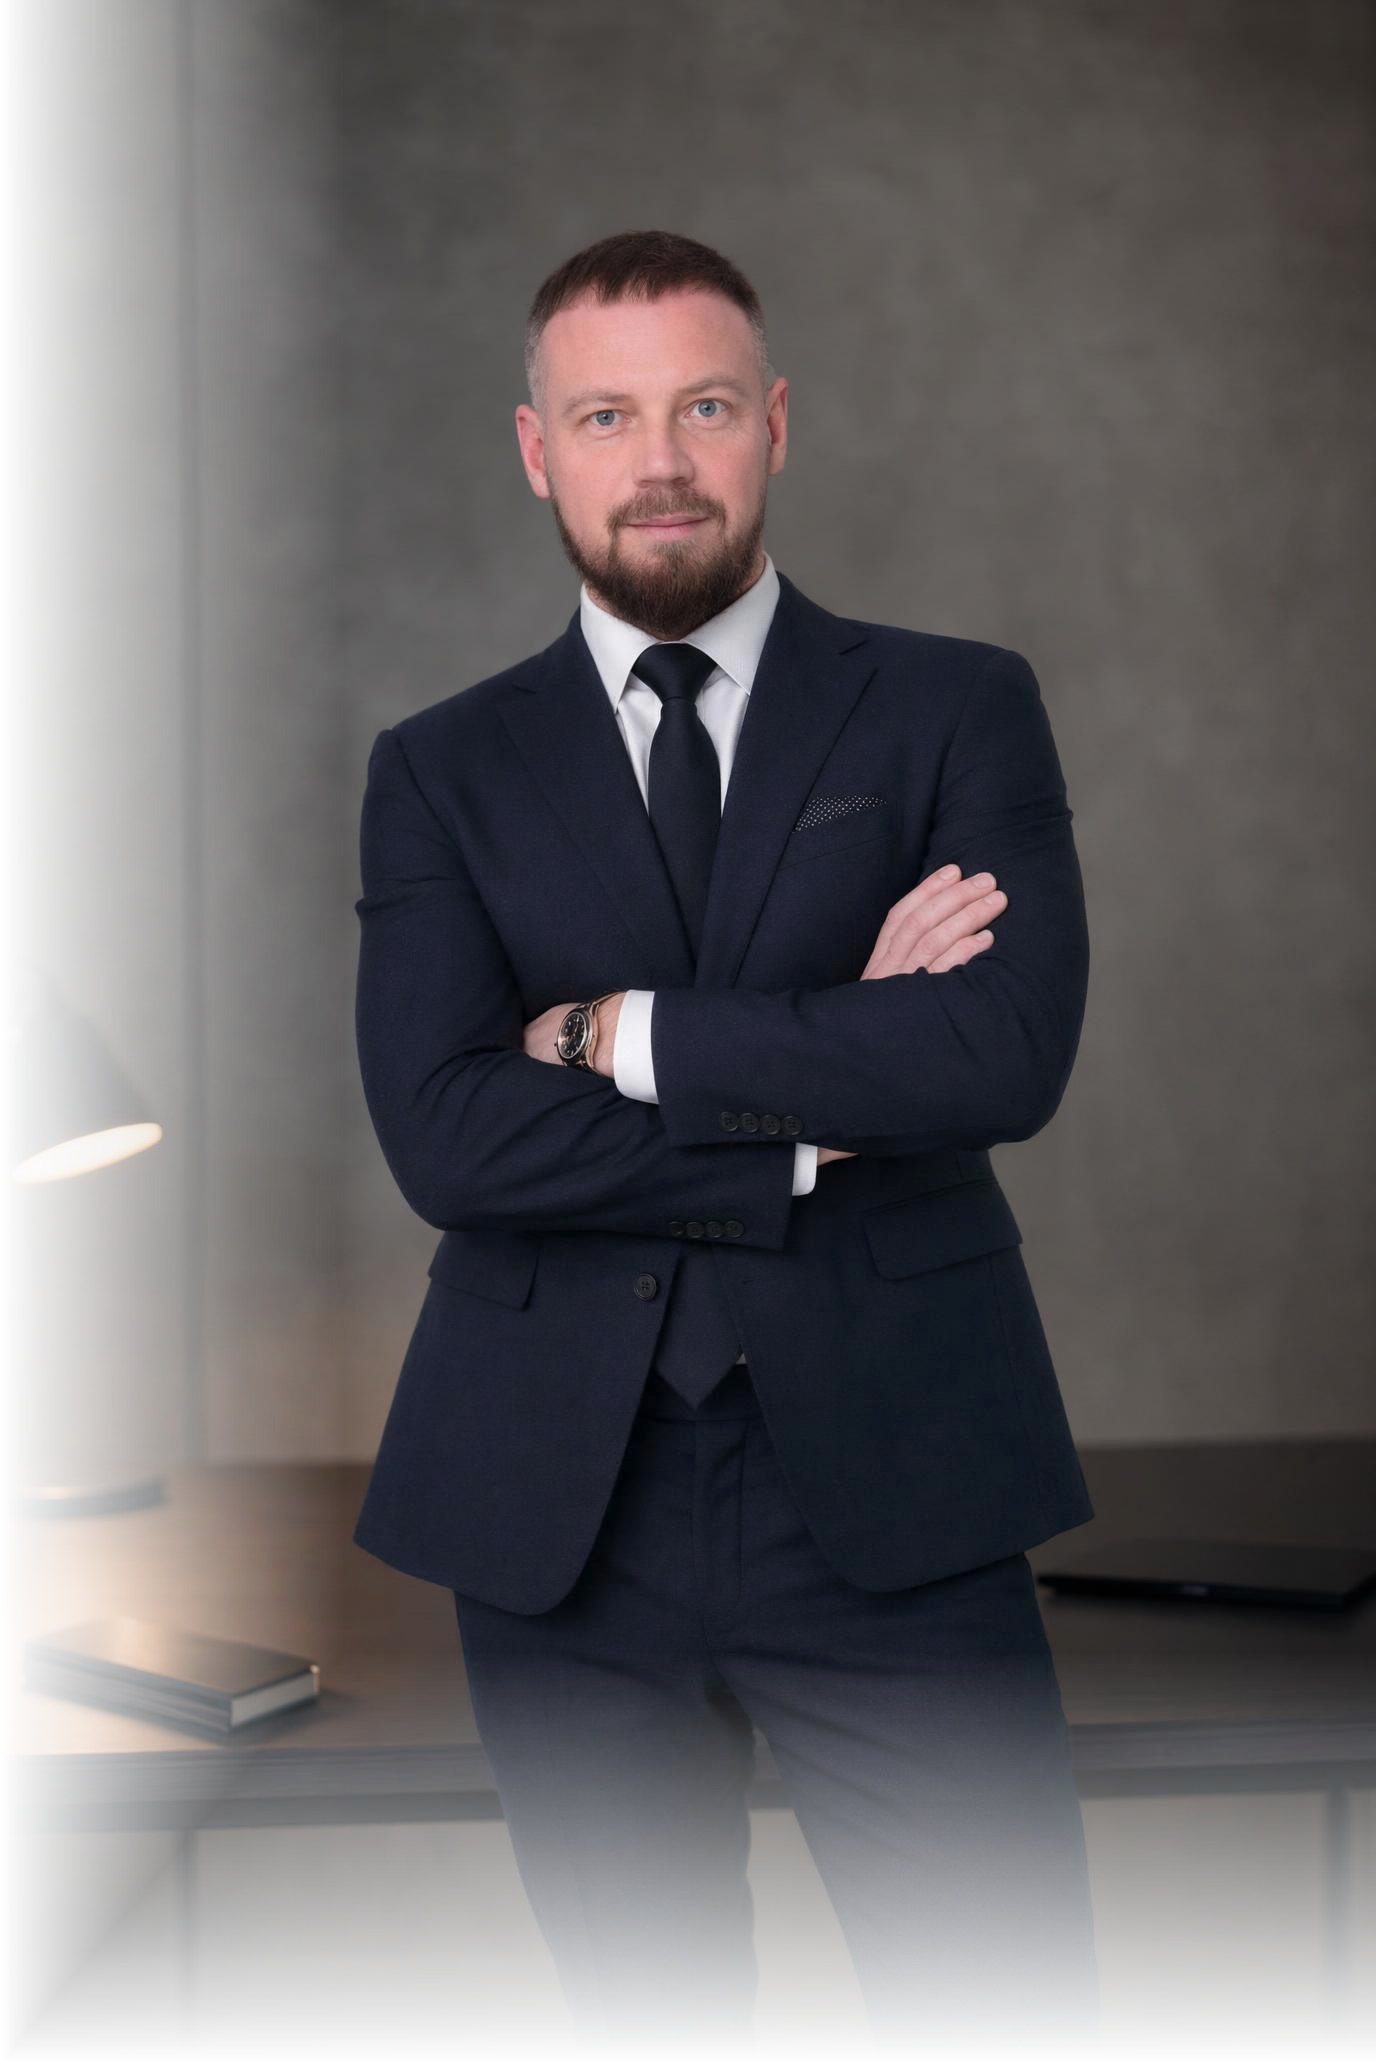
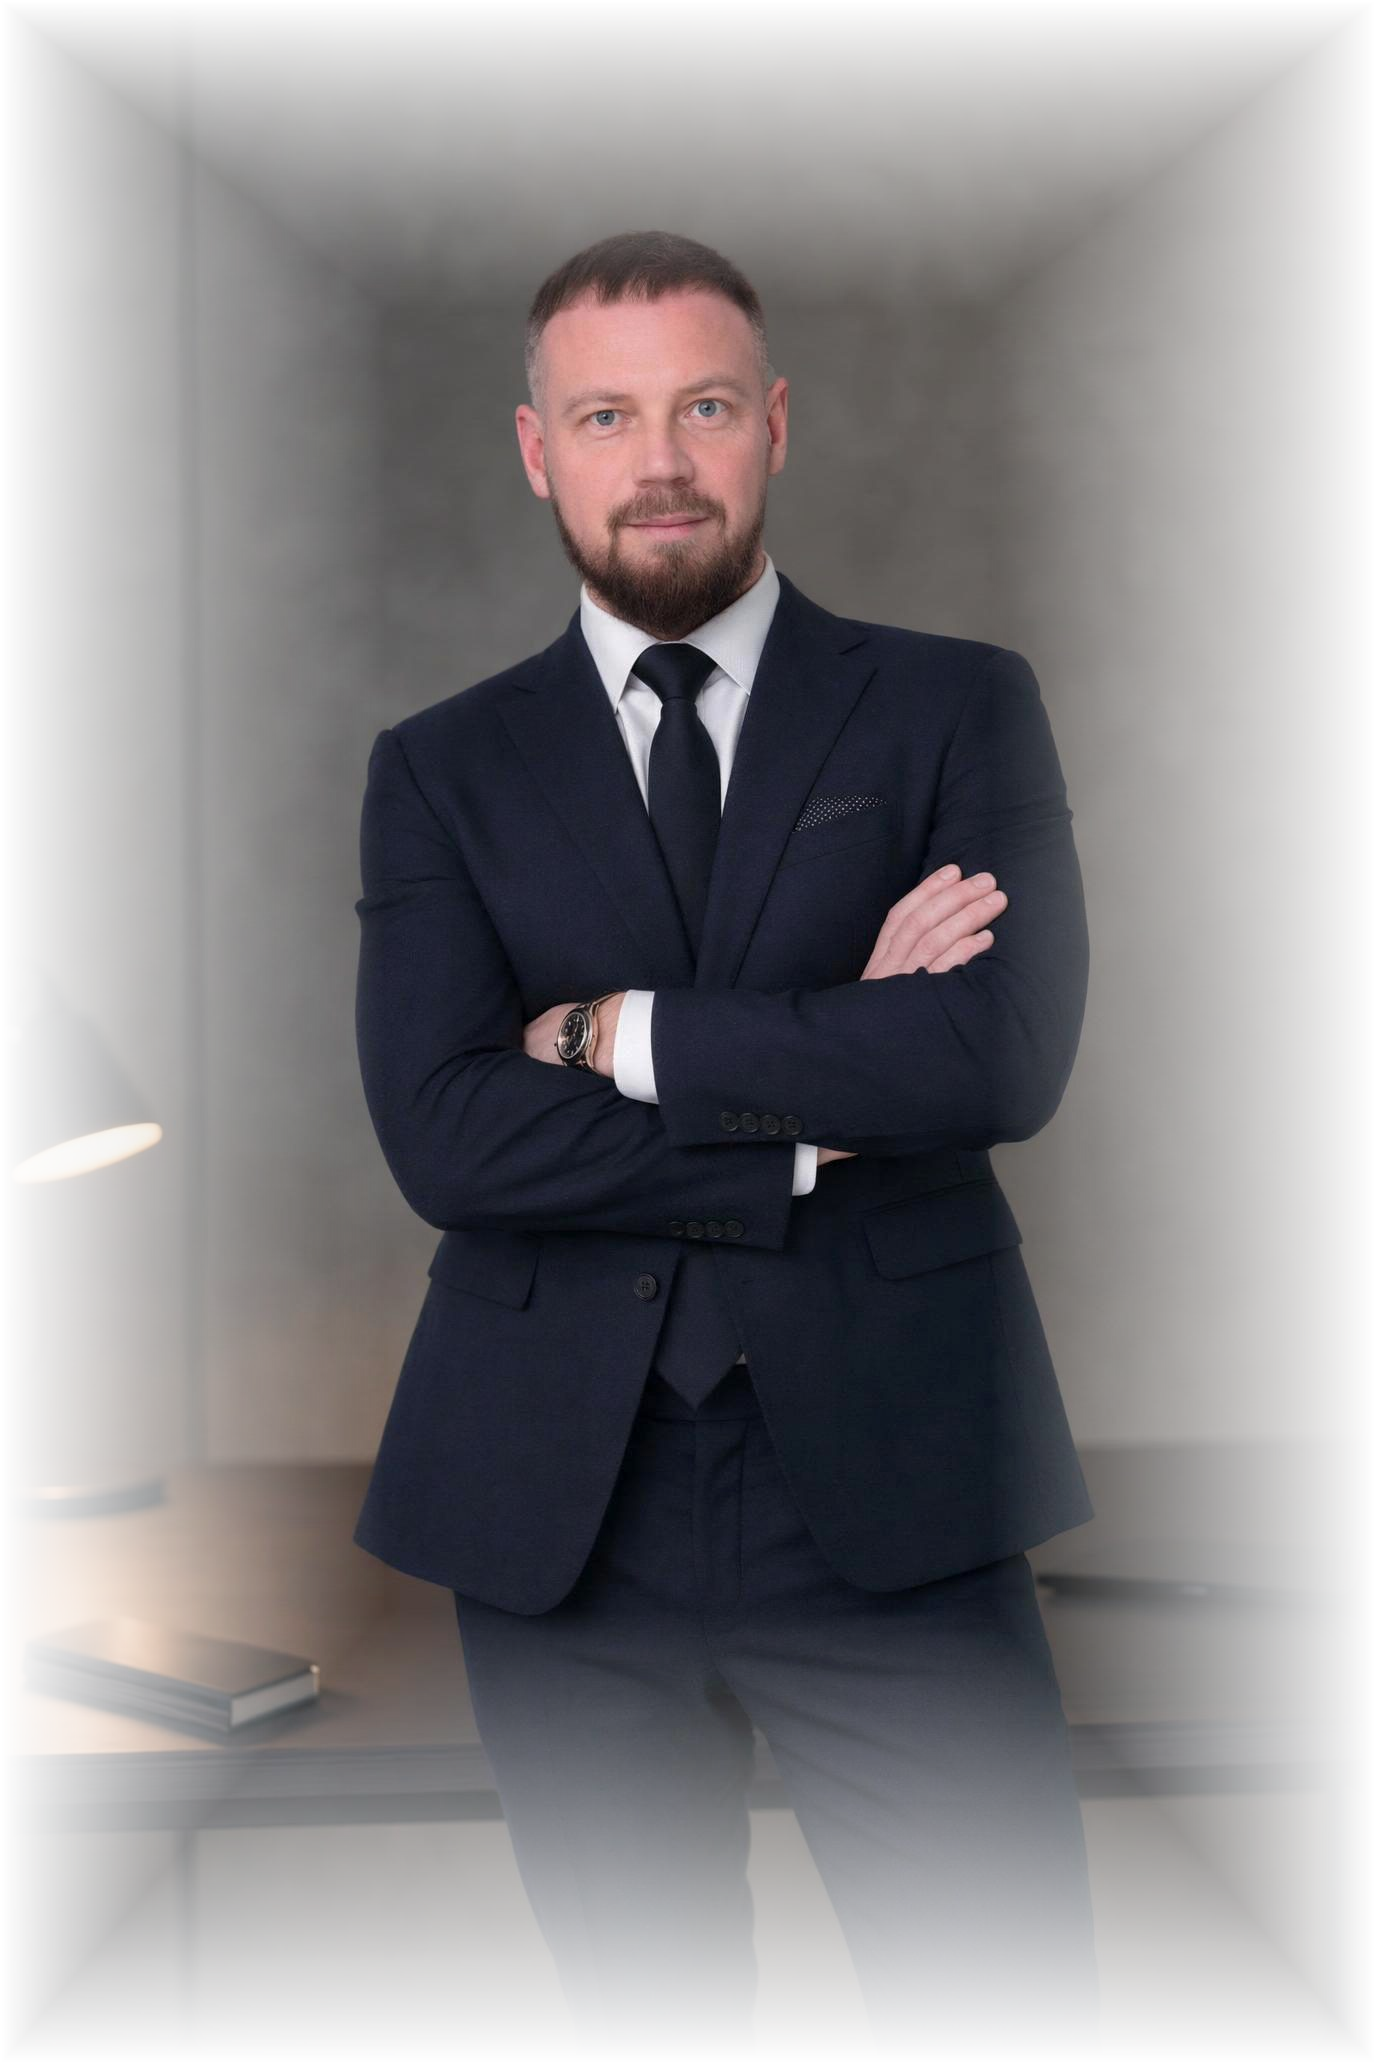
Update robert2 portrait in approach section, apply smooth 4-edge transparency fade mask to robert portrait in hero section

Changed region(s): [[0.0312, 0.0, 1.0, 0.9922]]

diff --git a/assets/css/style.css b/assets/css/style.css
@@ -494,8 +494,6 @@ body {
   max-height: 78vh;
   object-fit: contain;
   filter: drop-shadow(0 20px 40px rgba(0,0,0,0.6));
-  mask-image: linear-gradient(to bottom, black 85%, transparent 100%);
-  -webkit-mask-image: linear-gradient(to bottom, black 85%, transparent 100%);
 }
 
 .director-card {

diff --git a/index.html b/index.html
@@ -150,7 +150,7 @@
         </div>
         
         <div class="approach__image-side">
-          <img src="assets/img/directors/robert.jpg" alt="Роберт Дорн за работой" class="approach__img">
+          <img src="assets/img/directors/robert2.jpg" alt="Роберт Дорн за работой" class="approach__img">
         </div>
         
         <div class="approach__features-side">